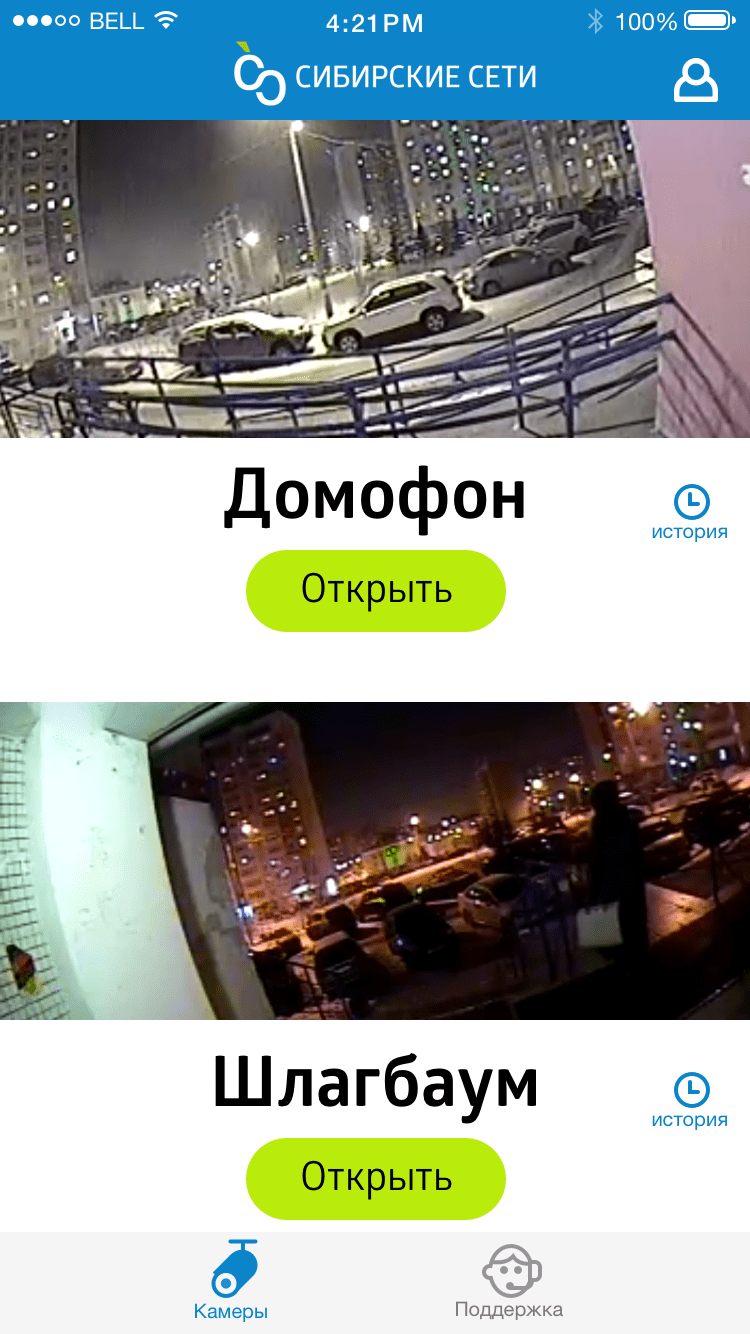
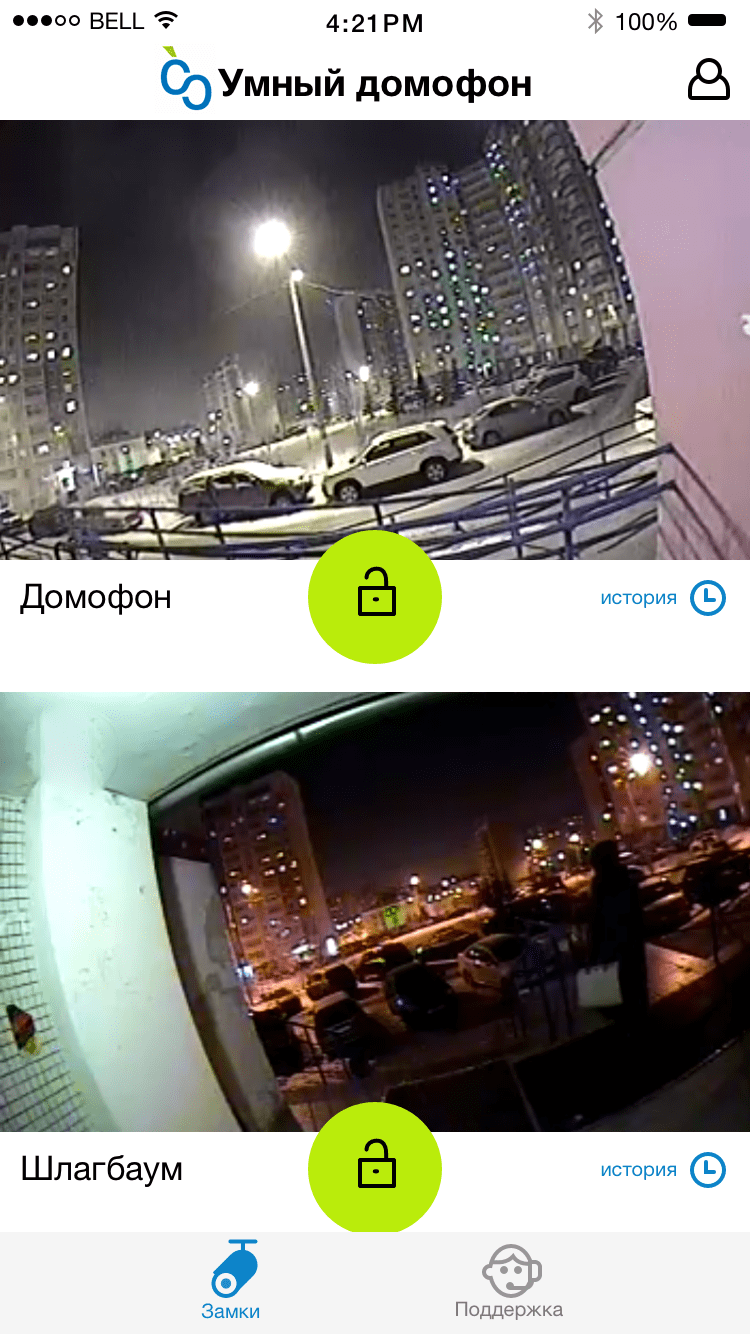
fasdf

diff --git a/intercom/index.html b/intercom/index.html
@@ -25,22 +25,43 @@
 
 <body>
 
-    <img src="img/01@2x.png">
-    <img src="img/02@2x.png">
+<p>Итак, начну с обрамления камеры в некий блок. Я попробовал сделать «рамочку» для камеры и эта идея мне не понравилась, и вот почему.</p>
+    <p>Посомтри как выглядел инстаграмм лет 7 назад, когда еще был модный скеоморфизм:
+    </p>
+    <img src="img/ins01.png">
+    <p>А как он выглядит сейчас. Понимаешь разницу? :-)</p>
+    <img src="img/ins02.png">
+    <p>
+        У рамочки есть недостаток: когда камера одна (а обычно так и будет), то эта рамочка выглядит глупо. Я понимаю, что ее можно сделать более изящно, выдрачить каждый пиксель, но она не станет от этого менее странной. Да и пиксели она съедает, это будет хорошо заметно на маленьких телефонах.
+    </p>
+    <img src="img/00@2x.png" class="iphone6">
     <br>
-    <img src="img/03@2x.png">
-    <img src="img/04@2x.png">
+<p>Вот новое решение, которое учитывает твои пожелания. А именно, сразу видно, к чему относятся управляющие элементы за счет того, как кнопка «цепляется» за фотку. Замочек теперь такой же, как на экране входящего звонка.</p>
+<p>Убрал акцент с названия камеры. Все-таки, это не новостной заголовок и надпись всегда будет одна и та же. Более того, в теории его можно убрать и ничего не изменится, потому что по картинке все ясно.</p>
+<p>Опять же, такая расстановка требует меньше места на экране. Да и просто более современно выглядит, а-ля матеирал-дизайн.</p>
+    <img src="img/01@2x.png" class="iphone6">
+    <img src="img/02@2x.png" class="iphone6">
     <br>
-    <img src="img/05@2x.png">
-    <img src="img/06@2x.png">
+    <img src="img/03@2x.png" class="iphone6">
+    <img src="img/04@2x.png" class="iphone6">
     <br>
-    <img src="img/07@2x.png">
-    <img src="img/08@2x.png">
-    <img src="img/09@2x.png">
-    <img src="img/10@2x.png">
+    <img src="img/05@2x.png" class="iphone6">
+    <img src="img/06@2x.png" class="iphone6">
     <br>
-    <img src="img/11@2x.png">
+    <img src="img/07@2x.png" class="iphone6">
+    <img src="img/08@2x.png" class="iphone6">
+    <img src="img/09@2x.png" class="iphone6">
+    <img src="img/10@2x.png" class="iphone6">
     <br>
+<p>Теперь давай разберем историю.</p>
+<p>Я честным образом хотел сделать дату сверху, а «открытие» снизу и наоборот, но каждый раз это превращалось в фигню.</p>
+<p>Как ни разделяй два блока друг от друга, к фотке будет «прилипать» чужая дата. И не нужно смотреть на инстаграмм, там все логично: начинается фото с красивой аватарки автора, а заканчивается перепиской из каментов. По автору часто понятно, пропускать незагруженное еще фото или остаться ненадолго.</p>
+<p>На этом моменте, кстати, я бы попросил перестать сравнивать наше приложение с истаграммом :-) Вот когда в Сибири начнут пальмы расти, как на Бали, тогда и фотки будут красивые. Тогда и приложение сразу будет иначе выглядеть. А пока что, я пытаюсь сделать «как у них» и это заранее провальное сравнение.</p>
+<p>Не будет как в инстаграме, будет хуже всегда.</p>
+    <img src="img/11@2x.png" class="iphone6">
+    <br>
+<p>Немного прилизанная версия прошлой истории.</p>
+    <img src="img/12@2x.png" class="iphone6">
     <br>
 
 

diff --git a/intercom/index 3.html b/intercom/index 3.html
@@ -1,0 +1,52 @@
+<!DOCTYPE html>
+<html xmlns="http://www.w3.org/1999/xhtml">
+<head>
+<meta http-equiv="Content-Type" content="text/html; charset=UTF-8" />
+
+    <title>Росдомофон</title>
+
+    <link href="css/style.css" type="text/css" rel="stylesheet" />
+
+    <script type="text/javascript" src="js/jquery-1.8.3.min.js"></script>
+    <script type="text/javascript" src="js/main.js"></script>
+
+	<script type="text/javascript">
+		$(document).ready(function(){
+            init();
+		});
+
+	</script>
+
+	<style>
+
+	</style>
+
+</head>
+
+<body>
+
+    <img src="img/01@2x.png">
+    <img src="img/02@2x.png">
+    <br>
+    <img src="img/03@2x.png">
+    <img src="img/04@2x.png">
+    <br>
+    <img src="img/05@2x.png">
+    <img src="img/06@2x.png">
+    <br>
+    <img src="img/07@2x.png">
+    <img src="img/08@2x.png">
+    <img src="img/09@2x.png">
+    <img src="img/10@2x.png">
+    <br>
+    <img src="img/11@2x.png">
+    <br>
+    <br>
+
+
+
+</body>
+</html>
+
+
+

diff --git a/intercom/css/style.css b/intercom/css/style.css
@@ -17,6 +17,8 @@ img, a, p {
 }
 img {
     box-shadow: 0 2px 7px 0px rgba(0,0,0,0.3);
+}
+.iphone6 {
     width: 375px;
 }
 p {
